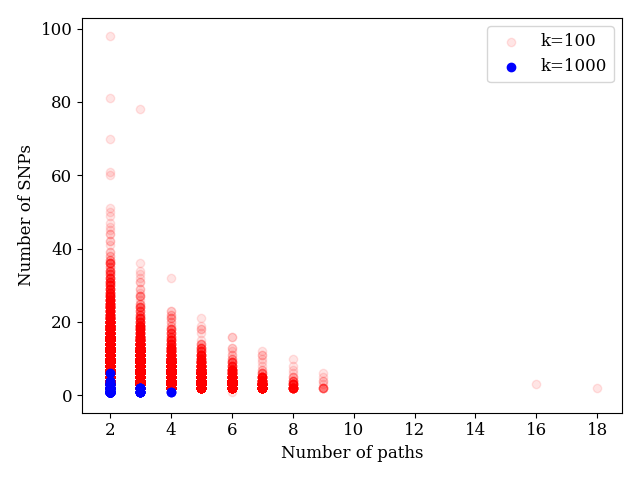
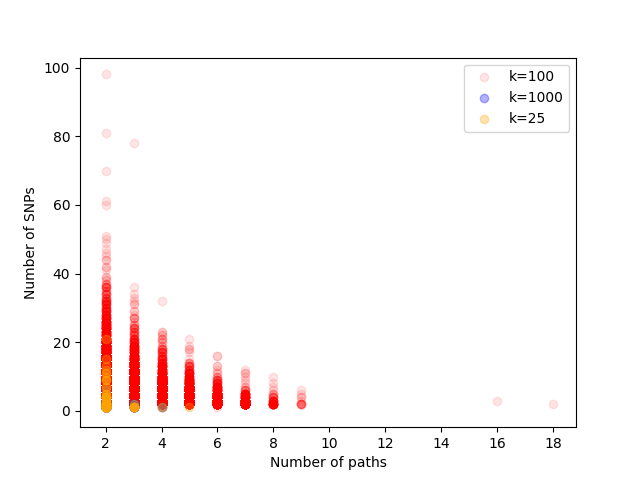
update scatter to include k=25

diff --git a/pangenome/create_scatter.py b/pangenome/create_scatter.py
@@ -39,6 +39,25 @@ for line in f.readlines():
 
 plt.scatter(x,y, c="blue", alpha=0.3, label="k=1000")
 
+f = open("output.k25.20.txt")
+x = []
+y = []
+counter = 0
+for line in f.readlines():
+    if counter == 0:
+        x.append(len(line.split()))
+        counter += 1
+    else:
+        if line != "No SNPS\n":
+            y.append(len(line.split()))
+        else:
+            print("no SNPS")
+            y.append(0)
+        counter += 1
+    counter = counter % 2
+
+plt.scatter(x,y, c="orange", alpha=0.3, label="k=25")
+
 plt.xlabel("Number of paths")
 plt.ylabel("Number of SNPs")
 
